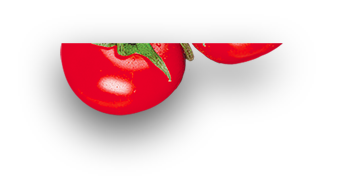
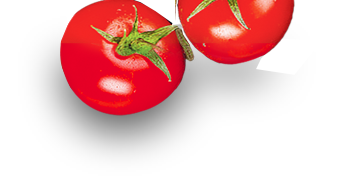
Hero page navigation changed

Changed region(s): [[0.1709, 0.0, 0.8547, 0.3731]]

diff --git a/src/components/Hero.vue b/src/components/Hero.vue
@@ -58,11 +58,21 @@
           <a class="phone" href="tel:0048510400616">+48 510 400 616</a>
         </div>
         <nav class="static__nav">
-          <ul class="navItems">
-            <li class="item" v-for="item in navItems" :key="item.link">
-              <span @click="$router.push(item.link)">{{ item.title }}</span>
-            </li>
-          </ul>
+          <div class="navItem">
+            <span @click="$router.push('/menu')">Zamów - przejdź do menu</span>
+          </div>
+          <div class="burger__wrapper">
+            <div
+              class="nav-mobile"
+              id="nav-icon"
+              :class="{ open: isNavOpen }"
+              @click="isNavOpen = !isNavOpen"
+            >
+              <span></span>
+              <span></span>
+              <span></span>
+            </div>
+          </div>
         </nav>
       </div>
     </div>
@@ -482,29 +492,6 @@ export default class Hero extends Vue {
     }
   ];
 
-  navItems: NavItem[] = [
-    {
-      title: "Menu",
-      link: "/menu"
-    },
-    {
-      title: "Nasza jakość",
-      link: "/nasza-jakosc"
-    },
-    {
-      title: "Nasze centrum",
-      link: "/nasze-centrum"
-    },
-    {
-      title: "Galeria",
-      link: "/galeria"
-    },
-    {
-      title: "Gdzie dowozimy?",
-      link: "/dostawa"
-    }
-  ];
-
   updatePizzaIndex() {
     if (this.activePizzaIndex < this.pizzas.length - 1) this.activePizzaIndex++;
     else this.activePizzaIndex = 0;
@@ -742,7 +729,6 @@ export default class Hero extends Vue {
       z-index: 1;
       .contact__details {
         @include flex;
-
         padding-bottom: $verticalPadding / 6;
         h2,
         a {
@@ -753,6 +739,7 @@ export default class Hero extends Vue {
           color: white;
           &.phone {
             color: $mainColor;
+            font-size: 1.5rem;
           }
         }
       }
@@ -810,7 +797,7 @@ export default class Hero extends Vue {
       }
       &.tomatoes {
         top: -3vh;
-        left: 50%;
+        left: 40%;
       }
       &.olives {
         left: 0;
@@ -1209,49 +1196,57 @@ export default class Hero extends Vue {
       position: absolute;
       padding: $verticalPadding / 4 $horizontalPadding / 4;
       width: 100%;
-      grid-template-columns: 30vw auto;
-
+      grid-template-columns: minmax(25vw, 1fr) 1fr;
+      .burger__container {
+        display: none;
+      }
+      .logo__container {
+        margin: 0;
+      }
       .nav__container {
         .contact__details {
           justify-content: flex-end;
-          h2:first-of-type {
-            margin-right: 20px;
+          h2 {
+            &:first-of-type {
+              margin-right: 20px;
+            }
           }
         }
         .static__nav {
-          .navItems {
+          @include flex;
+          flex-direction: row;
+          .navItem {
+            @include flex;
+            margin-right: $horizontalPadding / 2;
             padding: $verticalPadding / 6 $horizontalPadding / 8;
-            display: grid;
-            grid-template-columns: repeat(5, auto);
-            grid-template-rows: 1fr;
-            column-gap: $horizontalPadding / 8;
             background-color: rgba(0, 0, 0, 0.4);
-            .item {
-              font-size: 1.25rem;
-              line-height: 1.5;
-              color: white;
-              white-space: nowrap;
-              :hover {
-                cursor: pointer;
+            font-size: 1.25rem;
+            line-height: 1.5;
+            color: white;
+            white-space: nowrap;
+            :hover {
+              cursor: pointer;
+            }
+            span {
+              position: relative;
+              &:hover:after {
+                width: 100%;
               }
-              span {
-                position: relative;
-                &:hover:after {
-                  width: 100%;
-                }
-                &::after {
-                  content: "";
-                  display: block;
-                  position: absolute;
-                  left: 0px;
-                  background-color: white;
-                  height: 1px;
-                  margin-top: 2px;
-                  transition: width 0.5s cubic-bezier(0.76, 0, 0.24, 1);
-                  width: 0;
-                }
+              &::after {
+                content: "";
+                display: block;
+                position: absolute;
+                left: 0px;
+                background-color: white;
+                height: 1px;
+                margin-top: 2px;
+                transition: width 0.5s cubic-bezier(0.76, 0, 0.24, 1);
+                width: 0;
               }
             }
+          }
+          .burger__wrapper {
+            @include flex;
           }
         }
       }
@@ -1346,7 +1341,10 @@ export default class Hero extends Vue {
 
   @media (min-width: 1024px) {
     .static__container {
-      grid-template-columns: 30vw auto;
+      width: 80%;
+      margin: 0 auto;
+      grid-template-columns: 0.5fr 1fr;
+      column-gap: $horizontalPadding / 2;
       .burger__container {
         display: none;
       }
@@ -1355,7 +1353,11 @@ export default class Hero extends Vue {
           flex-direction: row;
         }
         .static__nav {
-          display: block;
+          display: flex;
+          justify-content: flex-end;
+          .burger__wrapper {
+            display: flex;
+          }
         }
       }
     }
@@ -1371,6 +1373,16 @@ export default class Hero extends Vue {
           bottom: 1vh;
           max-width: 20vw;
         }
+      }
+    }
+    .static__container .nav__container .contact__details {
+      h2 {
+        a {
+          font-size: 1.5rem;
+        }
+      }
+      a.phone {
+        font-size: 1.75rem;
       }
     }
     @media (max-height: 750px) {

diff --git a/src/components/TheNavbar.vue b/src/components/TheNavbar.vue
@@ -2,7 +2,8 @@
   <nav
     class="navbar"
     :class="{
-      hiddenNavbar: !showNavbar && !isNavOpen
+      hiddenNavbar:
+        (!showNavbar && !isNavOpen) || ($route.path === '/' && !isNavOpen)
     }"
   >
     <div class="back__wrapper" v-if="$route.path !== '/'">
@@ -91,7 +92,14 @@ export default class TheNavbar extends Vue {
 </script>
 <style lang="scss">
 @import "@/assets/scss/global.scss";
-
+.fadeDown-enter-active,
+.fadeDown-leave-active {
+  transition: opacity 0.5s;
+}
+.fadeDown-enter,
+.fadeDown-leave-to {
+  opacity: 0;
+}
 .navbar {
   width: 100%;
   min-height: 6vh;

diff --git a/src/App.vue b/src/App.vue
@@ -1,9 +1,7 @@
 <template>
   <div id="app">
     <LoadingOverlay />
-    <TheNavbar
-      v-if="$route.path !== '/' || ($route.path === '/' && isNavOpen)"
-    />
+    <TheNavbar />
     <transition name="navOverlay">
       <NavOverlay v-if="isNavOpen" />
     </transition>
